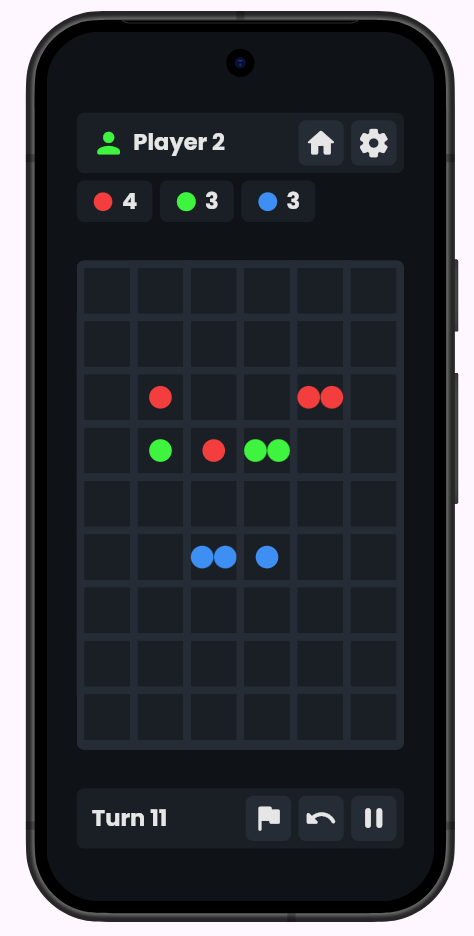
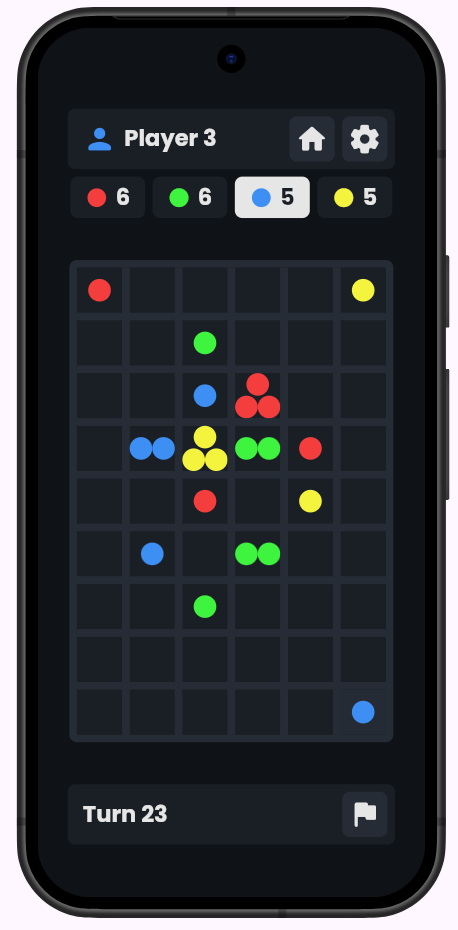
docs: updated readme.md

diff --git a/README.md b/README.md
@@ -1,9 +1,10 @@
+
 # Reaction Chain
 
-> For board game enthusiasts looking for a better [Chain Reaction](https://play.google.com/store/apps/details?id=com.BuddyMattEnt.ChainReaction&hl=en) experience. 
+> A customizable local multiplayer version of the classic [Chain Reaction](https://play.google.com/store/apps/details?id=com.BuddyMattEnt.ChainReaction&hl=en), built with Flutter.
 
-- **Live demo:** [enetwarch.github.io/reaction-chain/](https://enetwarch.github.io/reaction-chain/)
-- **Demo video:** `docs/demo.mp4` (link it here once it exists)
+- **Live demo:** [enetwarch.github.io/reaction-chain](https://enetwarch.github.io/reaction-chain/)
+- **Demo video:** See [`docs/05-demo-video.md`](docs/05-demo-video.md)
 - **Course:** Applications Development and Emerging Technologies (6ADET), Holy Angel University
 - **Author:** Enetwarch
 
@@ -11,91 +12,122 @@
 
 ```yaml
 reaction-chain/
-├── docs/ # proposal, mockups, weekly reports, screenshots
-├── lib/ # app source code
-│   ├── controllers/ # state and logic (MVC controller)
-│   ├── data/ # plain data classes (MVC model)
-│   ├── screens/ # full-page views (MVC view)
-│   ├── theme/ # design tokens, shared styling
-│   ├── widgets/ # reusable multi-widget components
+├── docs/ # project documentation and assets
+├── lib/
+│   ├── controllers/ # game and player-list state management
+│   ├── data/ # data models and game data
+│   ├── providers/ # local storage provider
+│   ├── screens/ # home, lobby, and game screens
+│   ├── theme/ # design tokens, colors, and dimensions
+│   ├── widgets/ # reusable UI components
 │   └── main.dart # app entry point
-├── web/ # web platform target
-├── AI-USAGE.md # AI usage log
-├── README.md # this file
-└── pubspec.yaml # dependencies
+├── web/ # Flutter web platform files
+├── AI-USAGE.md # AI assistance log and reflection
+├── SECURITY-CHECKLIST.md # security review checklist
+├── README.md # project overview
+└── pubspec.yaml # dependencies and project configuration
 ```
 
 ## Screenshots
 
 | Home | Local Lobby | Game |
 | --- | --- | --- |
-| ![Home](docs/assets/home-screen.png) | ![Local Lobby](docs/assets/local-lobby-screen.png) | ![Game](docs/assets/game-screen.png) |
+| ![Home screen](docs/assets/home-screen.png) | ![Local Lobby screen](docs/assets/local-lobby-screen.png) | ![Game screen](docs/assets/game-screen.png) |
 
 ## What it does
 
-- The user can create a custom lobby, with a minimum of 2 and maximum of 4 players.
-- The user can play a full local match of Chain Reaction, placing orbs and triggering chain reactions until only one player remains.
-- The user can adjust game settings such as sound, music, vibration, and move confirmation. (WIP)
-- The user can resign from an ongoing match if they no longer wish to continue. (WIP)
-- The user can undo a move or pause the game mid-match. (WIP)
+- **Local multiplayer:** Play with 2–4 players on one device.
+- **Customizable players:** Edit player names and colors, and reorder the player list.
+- **Chain Reaction gameplay:** Place orbs in cells and trigger chain reactions when cells reach their critical mass.
+- **Game state management:** Track turns, player ownership, and chain reactions until one player remains.
+- **Settings:** Configure available preferences such as sound, music, vibration, and move confirmation.
+- **Local persistence:** Save player configuration, settings, and game state using `shared_preferences`.
+- **Gameplay feedback:** Highlight the current player's score card and animate orb placement and chain reactions.
+
+Online multiplayer and computer-controlled opponents are outside the current implementation scope. Some planned controls, including undo, redo, pause, and resignation, may remain unfinished.
 
 ## How to use it
 
-1. **Home screen.** Tap **Play** to start a new game. The info button links to the official Chain Reaction rules, settings opens app preferences, and the source code button links to this repository.
-2. **Local lobby.** Add 2 to 4 players. Tap a player card to edit their name or color; use the drag handle to reorder players. Once everyone is set, start the match.
-3. **Game screen.** Players take turns placing orbs on the board. When a cell overloads, it triggers a chain reaction into neighboring cells. The last player with orbs remaining wins.
+1. **Home screen:** Select **Play** to start a new game. Use the available information, settings, and source-code buttons to access their respective features.
+2. **Local lobby:** Add 2–4 players, edit their names and colors, and reorder them using the drag handles. Start the match when the lobby is ready.
+3. **Game screen:** Players take turns placing orbs on the board. When a cell reaches its critical mass, it explodes into adjacent cells and can trigger further chain reactions. The goal is to be the last player remaining with orbs on the board.
 
 ## Built with
 
-| | |
+| Technology | Purpose |
 | --- | --- |
-| Framework | Flutter (Dart) |
-| State | `setState`, `ListenableBuilder` |
-| Storage | `shared_preferences` |
-| Other packages | `just_audio` for SFX |
+| Flutter and Dart | Cross-platform UI and application logic |
+| `setState` and `ListenableBuilder` | UI updates and state listening |
+| `shared_preferences` | Local persistence |
+| `flutter_soloud` | Sound effects |
+| `device_preview` | Device and layout preview during development |
 
-## Running it yourself
+The project uses a controller-based structure inspired by MVC, separating data models, state management, screens, and reusable widgets.
+
+## Running it locally
+
+### Requirements
+
+- Flutter `3.41.9`
+- Dart `3.12.2`
+
+### Steps
 
 ```bash
-git clone https://github.com/enetwarch/reaction-chain # Skip this line if the repository is already cloned. 
-flutter pub get # Downloads the necessary Flutter packages for this project.
-flutter run -d web-server --web-port 8080 # Run in local browser.
+git clone https://github.com/enetwarch/reaction-chain.git
+cd reaction-chain
+flutter pub get
+flutter run -d web-server --web-port 8080
 ```
 
-Then open http://localhost:8080. Requires Dart version `3.12.2`, Flutter version `3.41.9`. If this is ran successfully, you should see the home screen with a Play button in the center and info, settings, and source code buttons along the bottom.
+Open [http://localhost:8080](http://localhost:8080) in your browser.
 
-## Privacy and secrets
+The app should open on the Home screen, where you can access the local multiplayer lobby and other available features.
 
-- The app does not store any personal or sensitive data. All data lives in the local storage with the use of `shared_preferences`.
-- There are no `.env` files involved in this project as no API or online services are used.
+## Privacy and security
+
+- The app stores player configuration, settings, and game state locally using `shared_preferences`.
+- The app does not use a remote backend or require API keys, tokens, or other runtime secrets.
+- Local storage is not intended to protect data from someone with access to the device.
+- The repository's security review is documented in [`SECURITY-CHECKLIST.md`](SECURITY-CHECKLIST.md).
 
 ## Project documentation
 
-| Document | |
+| Document | Description |
 | --- | --- |
-| [Proposal](docs/01-proposal.md) | the problem, the users, the scope |
-| [Mockup and wireframes](docs/02-mockup.md) | what it looks like, and the screen flow |
-| [Design system](docs/03-design-system.md) | colors, type, spacing, components |
-| [Weekly reports](docs/04-weekly-reports.md) | what happened each week |
-| [Demo video](docs/05-demo-video.md) | the recording and what it shows |
-| [Security and privacy](docs/06-security-and-privacy.md) | the checklist, filled in |
+| [Proposal](docs/01-proposal.md) | Problem, intended users, and project scope |
+| [Mockup and wireframes](docs/02-mockup.md) | Screen designs and navigation flow |
+| [Design system](docs/03-design-system.md) | Colors, typography, spacing, and reusable components |
+| [Weekly reports](docs/04-weekly-reports.md) | Development progress, decisions, and blockers |
+| [Demo video](docs/05-demo-video.md) | Demonstration recording and overview |
+| [Security and privacy](docs/06-security-and-privacy.md) | Security and privacy assessment |
 
-## Status and what is next
+## Status and next steps
 
-To summarize, the home page and local lobby page are basically complete, with some refinements for later. The game page has its functionality down, but lacking in animations, which is the next focus in development.
+The Home screen, Local Lobby, player customization, settings, and local persistence have been implemented. The core local gameplay is functional, with ongoing work focused on animation polish and the remaining gameplay controls.
+
+Potential next steps include:
+- Further polish orb and chain-reaction animations.
+- Complete or reassess unfinished controls and dialogs.
+- Continue testing responsive layouts and saved-game behavior.
+- Improve the security of the deployment workflow by pinning third-party GitHub Actions to verified commit SHAs.
+
+Online multiplayer and bots are not part of the current MVP.
 
 ## Credits
 
-- Packages: see [`pubspec.yaml`](./pubspec.yaml)
-- Assets, icons, 3D models, sounds: (none so far)
-- People who helped: (none so far)
+- **Dependencies:** See [`pubspec.yaml`](pubspec.yaml).
+- **Assets:** No custom assets are currently documented; built-in Material icons and package-provided fonts are used.
+- **People who helped:** None listed.
 
 ## AI use
 
 ![Built with AI assistance](https://img.shields.io/badge/built%20with-AI%20assistance-0b5fff)
 
-I mostly used AI tools to help me self-study Flutter classes and packages I will use in this project. However, this project is still built with AI assistance. See [`AI-USAGE.md`](./AI-USAGE.md)
+AI tools were used to support Flutter learning, implementation, debugging, refactoring, and documentation. The project also includes independent design decisions, integration work, testing, and fixes to AI-generated solutions.
 
-## Licence
+See [`AI-USAGE.md`](AI-USAGE.md) for the detailed usage log, examples of incorrect AI suggestions, and a record of personal contributions.
 
-MIT, see [LICENSE](LICENSE).
+## License
+
+MIT. See [`LICENSE`](LICENSE).
